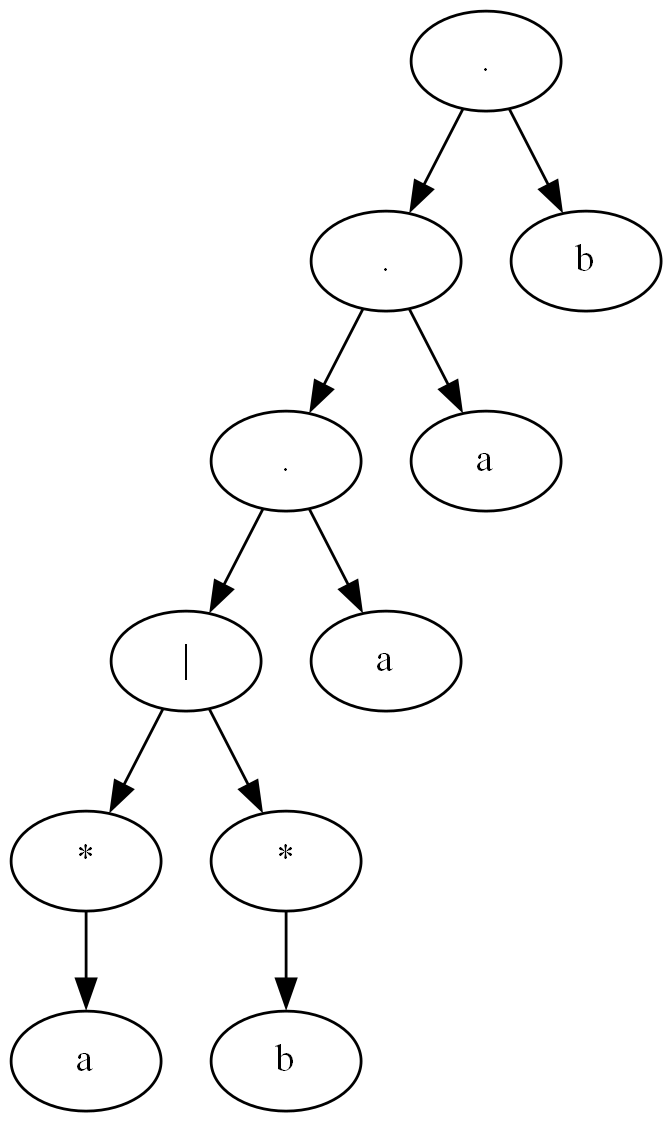
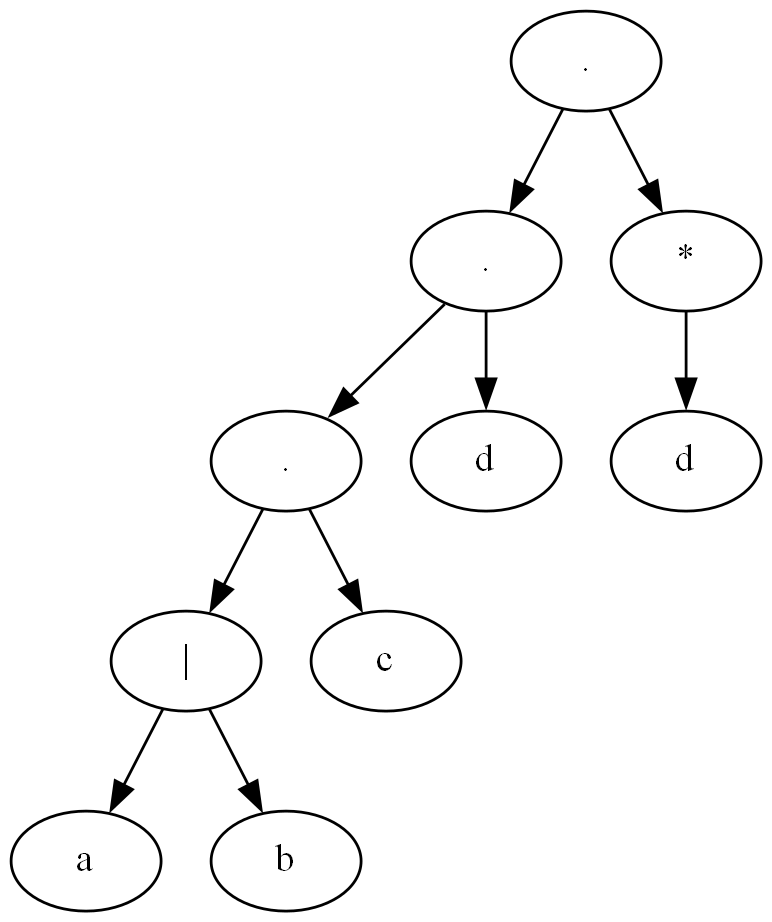
Automata works for all operators besides positive closure

diff --git a/Lab A/main.py b/Lab A/main.py
@@ -1,5 +1,6 @@
 import sys
 from graphviz import Digraph
+import copy
 
 class Tree:
     def __init__(self, root):
@@ -7,12 +8,133 @@ class Tree:
         self.leftChild = None
         self.rightChild = None
 
-# cleans the input from whitespaces
-# TODO: Modify to do this but with classes?
-def clean_input(user_input):
-    user_input = user_input.replace(' ','')
+class Automata:
+    def __init__(self, states, alphabet, transitions, initial_state, final_states):
+        self.states = states
+        self.alphabet = alphabet
+        self.transitions = transitions
+        self.initial_state = initial_state
+        self.final_states = final_states
     
-    return user_input
+
+def draw_automata(automata):
+    f = Digraph('finite_state_machine', format='png')
+    f.attr(rankdir='LR')
+    f.attr('node', shape='circle') #makes all nodes circles
+    for state in automata.states:
+        if state == automata.initial_state:
+            f.node('start_mark', shape='point', style='invis')
+            f.node(str(state))
+            f.edge('start_mark', str(state))
+        elif state in automata.final_states:
+            f.node(str(state), shape='doublecircle')
+        else:
+            f.node(str(state))
+        for operand in automata.alphabet:
+            next_states = [transition[1] for transition in automata.transitions if transition[0] == (state, operand)]
+            for next_state in next_states:
+                f.edge(str(state), str(next_state), label=operand)
+    f.render('NFA', format='png')
+    
+
+def operand_automata(subexpression, current_state):
+    states = [current_state, current_state+1]
+    alphabet = {subexpression}
+    initial_state = current_state
+    final_states = [current_state+1]
+    transitions = [((current_state, subexpression), current_state+1)]
+    return Automata(states, alphabet, transitions, initial_state, final_states)
+
+def or_automata(right_automata, left_automata, current_state):
+    # union of the states of the two automata
+    states = left_automata.states + right_automata.states
+    states.extend([current_state, current_state+1])
+    initial_state = current_state
+    final_states = [current_state+1]
+    # union of the alphabet of the two automata
+    alphabet = left_automata.alphabet.union(right_automata.alphabet)
+    alphabet.add('ε')
+    # union of the transitions of the two automata
+    transitions = left_automata.transitions + right_automata.transitions
+    # add transitions to the new initial state
+    transitions.append(((current_state, 'ε'), left_automata.initial_state))
+    transitions.append(((current_state, 'ε'), right_automata.initial_state))
+    # add transitions from the final states of the two automata to the new final state
+    for state in left_automata.final_states:
+        transitions.append(((state, 'ε'), current_state+1))
+    for state in right_automata.final_states:
+        transitions.append(((state, 'ε'), current_state+1))
+    return Automata(states, alphabet, transitions, initial_state, final_states)
+
+def concatenation_automata(right_automata, left_automata):
+    # union of the states of the two automata
+    states = [x for x in left_automata.states if x not in left_automata.final_states] + right_automata.states
+    initial_state = left_automata.initial_state
+    final_states = right_automata.final_states
+    alphabet = left_automata.alphabet.union(right_automata.alphabet)
+    transitions = left_automata.transitions + right_automata.transitions
+    # replace the transitions to final states of the left automata to the initial state of the right automata
+    
+    for i in range(len(transitions)):
+        if transitions[i][1] in left_automata.final_states:
+            transitions[i] = ((transitions[i][0][0], transitions[i][0][1]), right_automata.initial_state)
+    return Automata(states, alphabet, transitions, initial_state, final_states)
+
+def kleene_automata(automata, current_state):
+    states = automata.states
+    states.extend([current_state, current_state+1])
+    initial_state = current_state
+    final_states = [current_state+1]
+    alphabet = automata.alphabet
+    alphabet.add('ε')
+    transitions = automata.transitions
+    # transition the final states of the automata to the initial state
+    for state in automata.final_states:
+        transitions.append(((state, 'ε'), automata.initial_state))
+    # transition from the initial state to the initial state of the automata
+    transitions.append(((current_state, 'ε'), automata.initial_state))
+    # transition from the final states of the automata to the final state
+    for state in automata.final_states:
+        transitions.append(((state, 'ε'), current_state+1))
+    # transition from the initial state to the final state
+    transitions.append(((current_state, 'ε'), current_state+1))
+    return Automata(states, alphabet, transitions, initial_state, final_states)
+
+def question_automata(automata, current_state):
+    epsilon_automata = operand_automata('ε', current_state)
+    return or_automata(epsilon_automata, automata, current_state+2)
+
+def positive_closure_automata(automata, current_state):
+    automata_copy = copy.deepcopy(automata)
+    return concatenation_automata(kleene_automata(automata, current_state+2), automata_copy)
+
+def build_automata(postfix_expression):
+    unary_operators = ['*','+','?']
+    binary_operators = ['|','.']
+    stack = []
+    next_state = 0
+    for token in postfix_expression:
+        # Checks if token is a valid operand
+        if token not in unary_operators and token not in binary_operators:
+            stack.append(operand_automata(token, next_state))
+            next_state += 2
+        elif token == '|':
+            stack.append(or_automata(stack.pop(), stack.pop(), next_state))
+            next_state += 2
+        elif token == '.':
+            stack.append(concatenation_automata(stack.pop(), stack.pop()))#TODO: make states not to be wasted
+            #we do not need to add states because the concatenation automata already adds the states
+        elif token == '*':
+            stack.append(kleene_automata(stack.pop(), next_state))
+            next_state += 2
+        elif token == '?':
+            stack.append(question_automata(stack.pop(), next_state))
+            next_state += 4
+        elif token == '+':
+            stack.append(positive_closure_automata(stack.pop(), next_state))
+            next_state += 4
+    return stack.pop()
+
 
 #builds a tree based on the Tree class
 # TODO: Modify to do this but with classes?
@@ -36,6 +158,14 @@ def build_tree(postfix_expression):
             operator_tree.leftChild = stack.pop()
             stack.append(operator_tree)
     return stack.pop()
+
+
+# cleans the input from whitespaces
+# TODO: Modify to do this but with classes?
+def clean_input(user_input):
+    user_input = user_input.replace(' ','')
+    
+    return user_input
 
 def postorder_traversal_draw(tree, digraph):
     if tree:
@@ -108,7 +238,7 @@ def shunting_yard(user_input):
 def main():
     # this inputs the user input from the command line
     #print(sys.argv[1])
-    user_input = '(a*|b*)aab' # dummy input
+    user_input = '(a|b)cdd*' # dummy input
     user_input = clean_input(user_input) 
     #TODO: check if the input is valid
     user_input = format_input(user_input)
@@ -121,6 +251,9 @@ def main():
     postorder_traversal_draw(tree, digraph)
     # instead of a pdf file, generate a png file with -Tpng:gd
     digraph.render('expression tree', format='png')
+
+    automata = build_automata(output)
+    draw_automata(automata)
     
 
 
